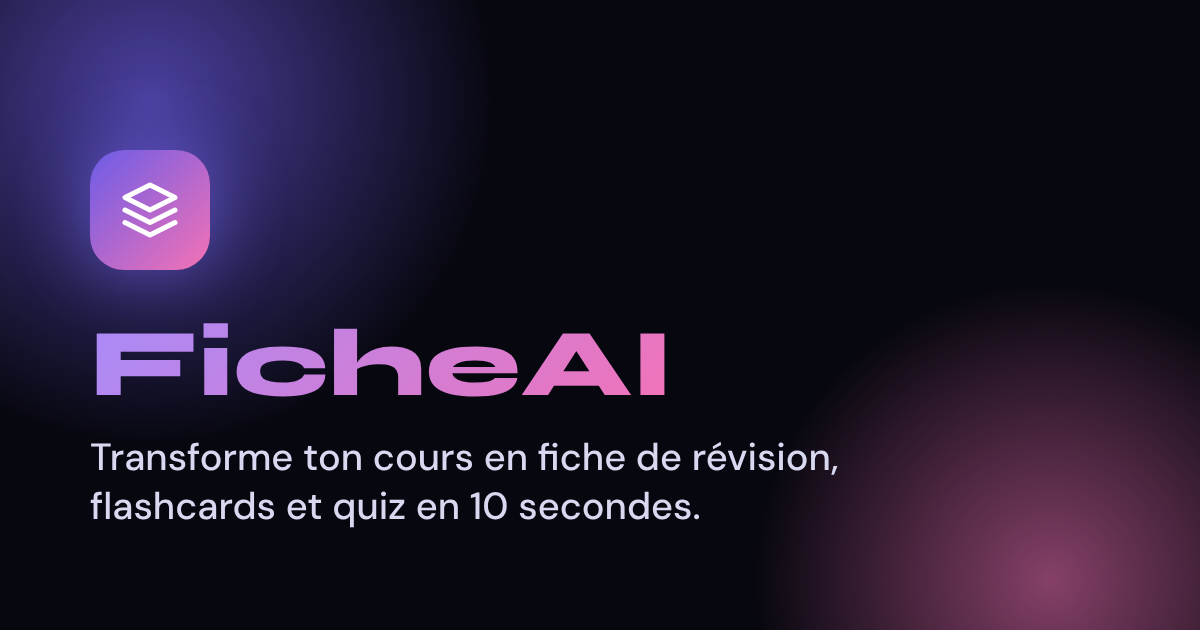
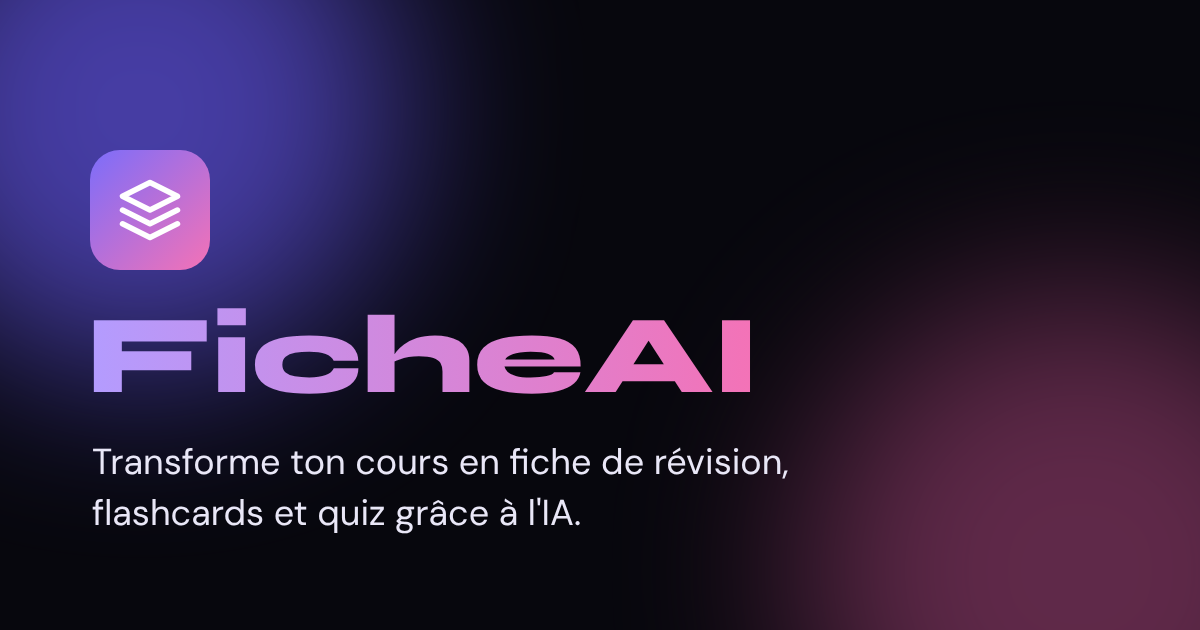
Chasse aux mentions trompeuses : « 10 secondes » retiré de l'image d'aperçu des liens, du manifeste et de la configuration ; « quelques secondes » retiré ; bouton photo masqué (fonction inexistante) ; offres corrigées (bibliothèque incluse pour tous, langues ouvertes à tous, suivi de progression ret
Claude-Session: https://claude.ai/code/session_012mPSToADYTJ33x4X9QjKoh

diff --git a/settings.html b/settings.html
@@ -412,7 +412,7 @@ function renderPlanSection(plan) {
   var actionsZone = document.getElementById('plan-actions-zone');
 
   if (plan === 'starter') {
-    displayZone.innerHTML = '<div class="plan-card starter"><div class="plan-card-left"><div class="plan-card-icon">🆓</div><div><div class="plan-card-name starter">Starter</div><div class="plan-card-desc">Gratuit · ' + remaining + ' générations restantes</div></div></div></div><div class="plan-feats"><div class="plan-feat"><span>✅</span> 5 générations IA / semaine</div><div class="plan-feat"><span>✅</span> Tous les formats</div><div class="plan-feat"><span>✅</span> Import PDF jusqu\'à 15 pages</div><div class="plan-feat"><span>❌</span> Chat IA — Pro requis</div><div class="plan-feat"><span>❌</span> Bibliothèque illimitée — Pro requis</div></div>';
+    displayZone.innerHTML = '<div class="plan-card starter"><div class="plan-card-left"><div class="plan-card-icon">🆓</div><div><div class="plan-card-name starter">Starter</div><div class="plan-card-desc">Gratuit · ' + remaining + ' générations restantes</div></div></div></div><div class="plan-feats"><div class="plan-feat"><span>✅</span> 5 générations IA / semaine</div><div class="plan-feat"><span>✅</span> Tous les formats</div><div class="plan-feat"><span>✅</span> Import PDF jusqu\'à 15 pages</div><div class="plan-feat"><span>❌</span> Chat IA — Pro requis</div><div class="plan-feat"><span>✅</span> Bibliothèque de fiches</div></div>';
     actionsZone.innerHTML = '<div class="settings-card"><h3>Passe à la vitesse supérieure 🚀</h3><p>Débloque le Chat IA, 50 générations par mois et bien plus.</p>'
       + '<div style="display:flex;gap:0.8rem;flex-wrap:wrap;margin-bottom:0.8rem;">'
       + '<a href="' + PRO_M + '" target="_blank" class="btn btn-primary">⚡ Pro — 7,99€/mois</a>'
@@ -431,7 +431,7 @@ function renderPlanSection(plan) {
       + '<div class="settings-card"><h3>Gérer mon abonnement</h3><p>Modifie ou annule ton abonnement Pro via le portail Stripe sécurisé.</p><button onclick="openStripePortal()" class="btn btn-secondary">⚙ Gérer mon abonnement Stripe →</button></div>';
 
   } else if (plan === 'ultimate') {
-    displayZone.innerHTML = '<div class="plan-card ultimate"><div class="plan-card-left"><div class="plan-card-icon">👑</div><div><div class="plan-card-name ultimate">Ultimate</div><div class="plan-card-desc">Le plan le plus puissant · 300 générations par mois</div></div></div></div><div class="plan-feats"><div class="plan-feat highlight"><span>✅</span> 300 générations / mois</div><div class="plan-feat highlight"><span>✅</span> Chat IA (300 messages/mois)</div><div class="plan-feat highlight"><span>✅</span> Import PDF jusqu\'à 50 pages</div><div class="plan-feat highlight"><span>✅</span> Bibliothèque illimitée</div><div class="plan-feat highlight"><span>✅</span> Accès anticipé aux nouvelles fonctionnalités</div></div>';
+    displayZone.innerHTML = '<div class="plan-card ultimate"><div class="plan-card-left"><div class="plan-card-icon">👑</div><div><div class="plan-card-name ultimate">Ultimate</div><div class="plan-card-desc">Le plan le plus puissant · 300 générations par mois</div></div></div></div><div class="plan-feats"><div class="plan-feat highlight"><span>✅</span> 300 générations / mois</div><div class="plan-feat highlight"><span>✅</span> Chat IA (300 messages/mois)</div><div class="plan-feat highlight"><span>✅</span> Import PDF jusqu\'à 50 pages</div><div class="plan-feat highlight"><span>✅</span> Bibliothèque de fiches</div><div class="plan-feat highlight"><span>✅</span> Accès anticipé aux nouvelles fonctionnalités</div></div>';
     actionsZone.innerHTML = '<div class="settings-card"><h3>👑 Tu es au maximum !</h3><p>Tu profites de toutes les fonctionnalités de FicheAI, avec 300 générations et 300 messages de chat par mois. Merci pour ta confiance !</p><div style="background:rgba(251,191,36,0.08);border:1px solid rgba(251,191,36,0.2);border-radius:10px;padding:0.8rem 1rem;font-size:0.83rem;color:var(--gold);">✨ Toutes les fonctionnalités débloquées</div></div>'
       + '<div class="settings-card"><h3>Gérer mon abonnement</h3><p>Modifie ou annule ton abonnement Ultimate via le portail Stripe sécurisé.</p><button onclick="openStripePortal()" class="btn btn-secondary">⚙ Gérer mon abonnement Stripe →</button></div>';
   }

diff --git a/index.html b/index.html
@@ -246,7 +246,7 @@ html{-webkit-text-size-adjust:100%}body{overflow-wrap:break-word;max-width:100vw
 <meta property="og:title" content="FicheAI — Transforme tes cours en fiches de révision avec l'IA">
 <meta property="og:description" content="FicheAI génère automatiquement des fiches de révision, quiz, flashcards et mind maps à partir de tes cours grâce à l'IA. Essaie gratuitement.">
 <meta property="og:url" content="https://studyai-kappa-swart.vercel.app/">
-<meta property="og:image" content="https://studyai-kappa-swart.vercel.app/og-image.png">
+<meta property="og:image" content="https://studyai-kappa-swart.vercel.app/og-image-v2.png">
 <meta property="og:image:alt" content="FicheAI : fiches de révision, flashcards et quiz générés par IA">
 <meta name="twitter:card" content="summary_large_image">
 <link rel="manifest" href="/manifest.webmanifest">
@@ -292,10 +292,10 @@ FicheAI
 <section class="hero">
 <div class="hero-eyebrow">
 <span class="blink"></span>
-✨ L'IA qui révolutionne la révision
+✨ Des fiches de révision générées par l'IA
 </div>
 <h1>Transforme tes cours<br>en fiches claires<br>grâce à l'IA</h1>
-<p>Colle ton cours, choisis ton format — FicheAI génère automatiquement des fiches de révision, quiz, flashcards et mind maps ultra-structurés grâce à l'IA.</p>
+<p>Colle ton cours, choisis ton format — FicheAI génère automatiquement des fiches de révision, quiz, flashcards et mind maps structurés grâce à l'IA.</p>
 <div class="hero-btns">
 <a href="/app.html" class="btn-hero">⚡ Essayer gratuitement</a>
 <a href="#comment" class="btn-hero-ghost">Voir comment ça marche →</a>
@@ -397,7 +397,7 @@ FicheAI
 <div class="format-item reveal">
 <div class="format-emoji">🃏</div>
 <div class="format-name">Flashcards</div>
-<div class="format-desc">10 cartes recto/verso avec astuces mnémotechniques pour mémoriser rapidement.</div>
+<div class="format-desc">10 cartes recto/verso avec astuces mnémotechniques pour mieux mémoriser.</div>
 </div>
 <div class="format-item reveal">
 <div class="format-emoji">🧠</div>
@@ -467,6 +467,8 @@ FicheAI
 <li>✓ 5 générations / semaine</li>
 <li>✓ Tous les formats</li>
 <li>✓ Import PDF 15 pages</li>
+<li>✓ 📚 Bibliothèque de fiches</li>
+<li>✓ Fiches en FR, EN, ES ou DE</li>
 <li>✓ Téléchargement .txt</li>
 </ul>
 <a href="/signup.html" style="display:block;text-align:center;padding:0.8rem;border-radius:100px;border:1.5px solid rgba(255,255,255,0.13);color:var(--text);text-decoration:none;font-weight:700;font-size:0.85rem;transition:all 0.2s" onmouseover="this.style.borderColor='#a29bfe';this.style.color='#a29bfe'" onmouseout="this.style.borderColor='rgba(255,255,255,0.13)';this.style.color='var(--text)'">Commencer gratuitement</a>
@@ -482,8 +484,8 @@ FicheAI
 <li>✓ 50 générations / mois</li>
 <li>✓ Import PDF 40 pages</li>
 <li>✓ 💬 Chat IA (20 messages/mois)</li>
-<li>✓ 📚 Bibliothèque sauvegardée</li>
-<li>✓ IA multilingue</li>
+<li>✓ 📝 Sujets d'examen</li>
+<li>✓ 📄 Export PDF</li>
 <li>✓ Support prioritaire</li>
 </ul>
 <button id="pro-cta" onclick="handlePlanClick('pro',window.proBilling||'monthly')" style="display:block;width:100%;text-align:center;padding:0.8rem;border-radius:100px;background:linear-gradient(135deg,var(--purple),var(--pink));color:white;text-decoration:none;font-weight:700;font-size:0.85rem;box-shadow:0 4px 20px rgba(108,92,231,0.35);border:none;cursor:pointer;font-family:var(--font-b)">Essayer 7 jours gratuits</button>
@@ -496,9 +498,8 @@ FicheAI
 <li>✓ 300 générations / mois</li>
 <li>✓ Import PDF 50 pages</li>
 <li>✓ 💬 Chat IA (300 messages/mois)</li>
-<li>✓ 📚 Bibliothèque illimitée</li>
-<li>✓ 🎯 Simulation d'examen</li>
-<li>✓ 📈 Suivi de progression</li>
+<li>✓ 🎯 Sujets d'examen</li>
+<li>✓ 📄 Export PDF</li>
 <li>✓ Accès anticipé nouveautés</li>
 </ul>
 <button id="ultimate-cta" onclick="handlePlanClick('ultimate','monthly')" style="display:block;width:100%;text-align:center;padding:0.8rem;border-radius:100px;background:linear-gradient(135deg,#e17055,var(--gold));color:white;text-decoration:none;font-weight:700;font-size:0.85rem;border:none;cursor:pointer;font-family:var(--font-b)">S'abonner à Ultimate</button>

diff --git a/app.html b/app.html
@@ -361,7 +361,7 @@ html{-webkit-text-size-adjust:100%}body{overflow-wrap:break-word;max-width:100vw
           <span class="course-zone-title"><span class="step-num" style="display:inline-flex;vertical-align:middle;margin-right:4px">3</span>📝 Ton cours</span>
           <span class="char-count" id="char-count">0 caractères</span>
         </div>
-        <textarea id="course-input" placeholder="Colle ici le contenu de ton cours… FicheAI va l'analyser et générer ton outil de révision parfait en quelques secondes."></textarea>
+        <textarea id="course-input" placeholder="Colle ici le contenu de ton cours… FicheAI va l'analyser et générer ton outil de révision."></textarea>
       </div>
       <div class="instr-zone">
         <label for="instructions-input">🎯 Consignes pour l’IA <span>(optionnel)</span></label>
@@ -559,7 +559,7 @@ function updateCharCount(){
 var onboardingSteps=[
   {icon:'🎯',title:'Choisis ton format',text:'Fiche, quiz, flashcards, mind map… Sélectionne dans la colonne de gauche le type de contenu que tu veux générer.'},
   {icon:'📝',title:'Colle ou importe ton cours',text:'Colle directement ton cours dans la zone de texte, ou importe un fichier PDF / TXT depuis tes documents.'},
-  {icon:'⚡',title:'Génère en un clic',text:'Clique sur « Générer avec l’IA » et récupère ta fiche en quelques secondes. Tu peux ensuite la copier, l’exporter en PDF ou la sauvegarder.'}
+  {icon:'⚡',title:'Génère en un clic',text:'Clique sur « Générer avec l’IA » et récupère ta fiche. Tu peux ensuite la copier, l’exporter en PDF ou la sauvegarder.'}
 ];
 
 function showToast(msg){
@@ -699,7 +699,7 @@ if(savedUser&&savedUser.email){
 updateNavUpgradeBtn();
 GEN_BTN_HTML=document.getElementById('gen-btn').innerHTML;
 
-if(/Android|iPhone|iPad|iPod|Mobile/i.test(navigator.userAgent)){document.getElementById('camera-btn').style.display='flex';}
+/* Bouton photo masqué tant que l'analyse de photos n'existe pas */
 
 async function refreshAccount(){
   if(!savedUser||!savedUser.email)return;

diff --git a/signup.html b/signup.html
@@ -57,14 +57,14 @@ html{-webkit-text-size-adjust:100%}body{overflow-wrap:break-word;max-width:100vw
 </style>
 <link rel="icon" href="/favicon.svg" type="image/svg+xml">
 <meta name="theme-color" content="#09090f">
-<meta name="description" content="Crée ton compte FicheAI gratuitement et génère tes fiches de révision, flashcards et quiz en quelques secondes.">
+<meta name="description" content="Crée ton compte FicheAI gratuitement et génère tes fiches de révision, flashcards et quiz à partir de tes cours.">
 <link rel="canonical" href="https://studyai-kappa-swart.vercel.app/signup.html">
 <meta property="og:type" content="website">
 <meta property="og:site_name" content="FicheAI">
 <meta property="og:title" content="Créer un compte gratuit — FicheAI">
-<meta property="og:description" content="Crée ton compte FicheAI gratuitement et génère tes fiches de révision, flashcards et quiz en quelques secondes.">
+<meta property="og:description" content="Crée ton compte FicheAI gratuitement et génère tes fiches de révision, flashcards et quiz à partir de tes cours.">
 <meta property="og:url" content="https://studyai-kappa-swart.vercel.app/signup.html">
-<meta property="og:image" content="https://studyai-kappa-swart.vercel.app/og-image.png">
+<meta property="og:image" content="https://studyai-kappa-swart.vercel.app/og-image-v2.png">
 <meta property="og:image:alt" content="FicheAI : fiches de révision, flashcards et quiz générés par IA">
 <meta name="twitter:card" content="summary_large_image">
 <link rel="manifest" href="/manifest.webmanifest">

diff --git a/contact.html b/contact.html
@@ -73,7 +73,7 @@ html{-webkit-text-size-adjust:100%}body{overflow-wrap:break-word;max-width:100vw
 <meta property="og:title" content="Contact — FicheAI">
 <meta property="og:description" content="Une question, un bug ou une idée ? Écris à l'équipe FicheAI.">
 <meta property="og:url" content="https://studyai-kappa-swart.vercel.app/contact.html">
-<meta property="og:image" content="https://studyai-kappa-swart.vercel.app/og-image.png">
+<meta property="og:image" content="https://studyai-kappa-swart.vercel.app/og-image-v2.png">
 <meta property="og:image:alt" content="FicheAI : fiches de révision, flashcards et quiz générés par IA">
 <meta name="twitter:card" content="summary_large_image">
 <link rel="manifest" href="/manifest.webmanifest">
@@ -100,7 +100,7 @@ html{-webkit-text-size-adjust:100%}body{overflow-wrap:break-word;max-width:100vw
   <div class="card">
     <div id="form-section">
       <h1>Nous contacter</h1>
-      <p>Une question, un bug, une suggestion ? Envoie-nous un message et on te répond rapidement.</p>
+      <p>Une question, un bug, une suggestion ? Envoie-nous un message et on te répond dès que possible.</p>
       <div class="field">
         <label>Ton email</label>
         <input type="email" id="email" placeholder="ton@email.com">

diff --git a/onboarding.html b/onboarding.html
@@ -61,7 +61,7 @@ background:linear-gradient(135deg,var(--purple),var(--pink));box-shadow:0 6px 26
   <a class="logo" href="/home.html"><span class="logo-icon"><svg viewBox="0 0 24 24" fill="none" stroke="white" stroke-width="2" stroke-linecap="round" stroke-linejoin="round"><path d="M12 2L2 7l10 5 10-5-10-5z"/><path d="M2 17l10 5 10-5"/><path d="M2 12l10 5 10-5"/></svg></span>FicheAI</a>
   <div class="steps"><span class="on"></span><span class="on"></span><span class="on"></span></div>
   <h1>Dernière étape avant de commencer</h1>
-  <p class="sub">FicheAI adapte le vocabulaire, la difficulté et les exemples de tes fiches à ton niveau. Ça prend 10 secondes.</p>
+  <p class="sub">FicheAI adapte le vocabulaire, la difficulté et les exemples de tes fiches à ton niveau.</p>
 
   <div class="card">
     <h2>Quel est ton niveau ? <span class="req">Obligatoire</span></h2>

diff --git a/confidentialite.html b/confidentialite.html
@@ -40,7 +40,7 @@ ul{margin:0.4rem 0 1rem 1.3rem}li{margin-bottom:0.4rem;line-height:1.7;color:var
 <meta property="og:title" content="Politique de confidentialité — FicheAI">
 <meta property="og:description" content="Comment FicheAI collecte, utilise et protège tes données personnelles.">
 <meta property="og:url" content="https://studyai-kappa-swart.vercel.app/confidentialite.html">
-<meta property="og:image" content="https://studyai-kappa-swart.vercel.app/og-image.png">
+<meta property="og:image" content="https://studyai-kappa-swart.vercel.app/og-image-v2.png">
 <meta property="og:image:alt" content="FicheAI : fiches de révision, flashcards et quiz générés par IA">
 <meta name="twitter:card" content="summary_large_image">
 <link rel="manifest" href="/manifest.webmanifest">

diff --git a/confirmation.html b/confirmation.html
@@ -88,7 +88,7 @@ html{-webkit-text-size-adjust:100%}body{overflow-wrap:break-word;max-width:100vw
       <div class="feature-item"><span>💬</span><span id="feat-chat">Chat IA</span></div>
       <div class="feature-item"><span>🃏</span><span id="feat-flash">Flashcards avancées</span></div>
       <div class="feature-item"><span>📝</span><span id="feat-exam">Générateur de sujets d'examen</span></div>
-      <div class="feature-item"><span>🌍</span><span id="feat-lang">Multilangue (FR, EN, ES, DE)</span></div>
+      <div class="feature-item"><span>📄</span><span id="feat-lang">Export PDF de tes fiches</span></div>
     </div>
     <a href="/app.html" class="btn-primary">Commencer à réviser →</a>
     <a href="/index.html" class="btn-secondary">Retour à l'accueil</a>

diff --git a/cgu.html b/cgu.html
@@ -36,7 +36,7 @@ ul{margin:0.4rem 0 1rem 1.3rem}li{margin-bottom:0.4rem;line-height:1.7;color:var
 <meta property="og:title" content="Conditions générales d'utilisation — FicheAI">
 <meta property="og:description" content="Conditions générales d'utilisation du service FicheAI.">
 <meta property="og:url" content="https://studyai-kappa-swart.vercel.app/cgu.html">
-<meta property="og:image" content="https://studyai-kappa-swart.vercel.app/og-image.png">
+<meta property="og:image" content="https://studyai-kappa-swart.vercel.app/og-image-v2.png">
 <meta property="og:image:alt" content="FicheAI : fiches de révision, flashcards et quiz générés par IA">
 <meta name="twitter:card" content="summary_large_image">
 <link rel="manifest" href="/manifest.webmanifest">

diff --git a/login.html b/login.html
@@ -56,7 +56,7 @@ html{-webkit-text-size-adjust:100%}body{overflow-wrap:break-word;max-width:100vw
 <meta property="og:title" content="Connexion — FicheAI">
 <meta property="og:description" content="Connecte-toi à ton compte FicheAI pour retrouver tes fiches, flashcards et quiz.">
 <meta property="og:url" content="https://studyai-kappa-swart.vercel.app/login.html">
-<meta property="og:image" content="https://studyai-kappa-swart.vercel.app/og-image.png">
+<meta property="og:image" content="https://studyai-kappa-swart.vercel.app/og-image-v2.png">
 <meta property="og:image:alt" content="FicheAI : fiches de révision, flashcards et quiz générés par IA">
 <meta name="twitter:card" content="summary_large_image">
 <link rel="manifest" href="/manifest.webmanifest">

diff --git a/mentions-legales.html b/mentions-legales.html
@@ -40,7 +40,7 @@ ul{margin:0.4rem 0 1rem 1.3rem}li{margin-bottom:0.4rem;line-height:1.7;color:var
 <meta property="og:title" content="Mentions légales — FicheAI">
 <meta property="og:description" content="Mentions légales du site FicheAI.">
 <meta property="og:url" content="https://studyai-kappa-swart.vercel.app/mentions-legales.html">
-<meta property="og:image" content="https://studyai-kappa-swart.vercel.app/og-image.png">
+<meta property="og:image" content="https://studyai-kappa-swart.vercel.app/og-image-v2.png">
 <meta property="og:image:alt" content="FicheAI : fiches de révision, flashcards et quiz générés par IA">
 <meta name="twitter:card" content="summary_large_image">
 <link rel="manifest" href="/manifest.webmanifest">

diff --git a/README.md b/README.md
@@ -12,7 +12,7 @@ Application web de révision pour lycéens et étudiants, propulsée par l'IA. G
 
 ## Fonctionnalités principales
 
-- Génération de fiches de révision à partir de cours (texte ou photo)
+- Génération de fiches de révision à partir de cours (texte ou PDF)
 - Mode Chat IA pour poser des questions sur un cours (plans Pro / Ultimate uniquement)
 - Export PDF des fiches
 - Gestion d'abonnement via Stripe Customer Portal
